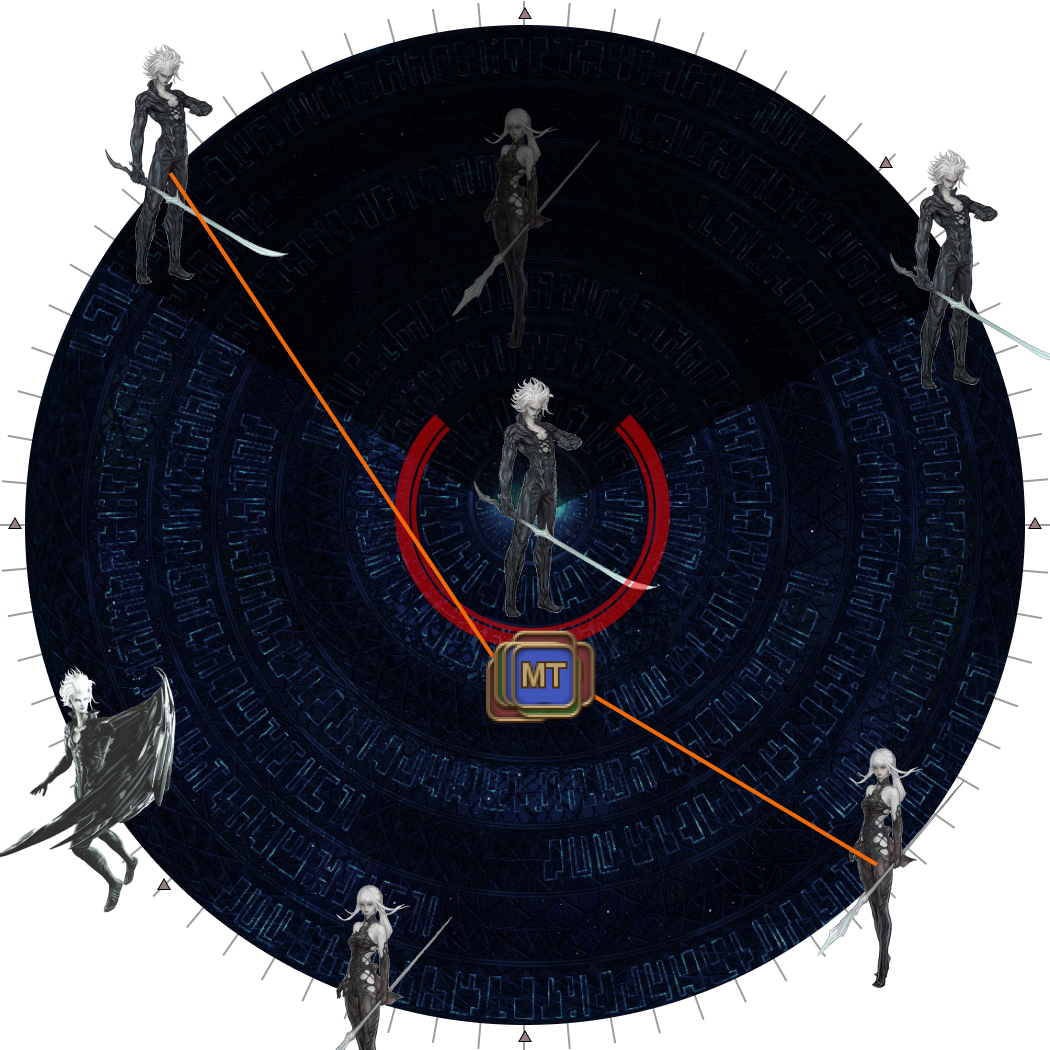
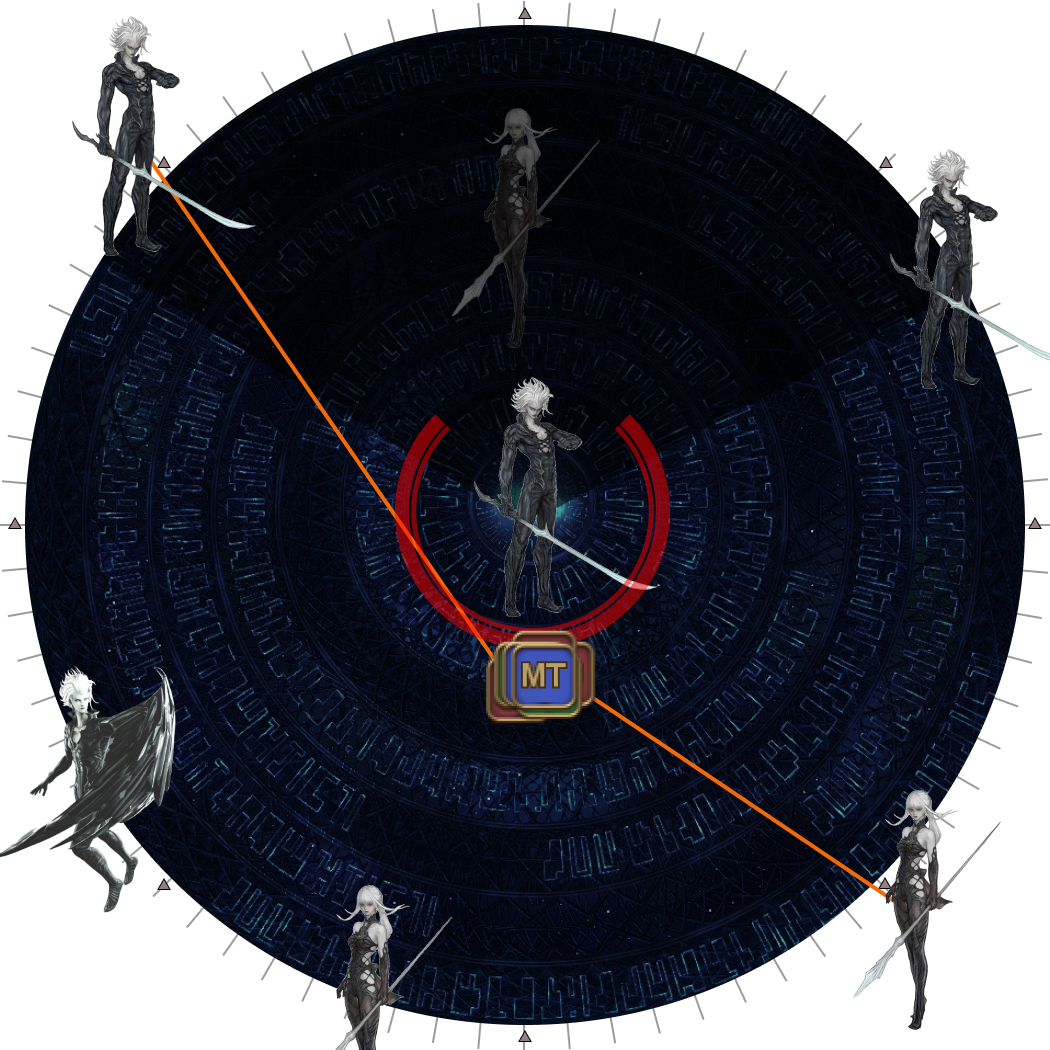
Add FAQ on optimal tether angle, correct tether positions in diagrams

diff --git a/ultimates/top/02_omega_mf.en.md b/ultimates/top/02_omega_mf.en.md
@@ -236,7 +236,7 @@ mechanics at the party to resolve.
 
 <table>
   <tr>
-    <td>
+    <td width="50%">
       <p><b>7.</b> All players stack together outside the target circle, at
       true south (indicated by the tip of Omega-M's targeting circle).</p>
       <p>Two clones at opposite intercardinal positions will each tether a
@@ -357,13 +357,49 @@ the hard enrage.
 </summary>
 <table>
   <tr>
-    <td>
+    <td width="50%">
       <p>It's rare (3/35 chance), but yes, it's possible.</p>
       <p>The rule still stays the same- the player further from the eye
       switches sides (two people on each side adjusts).</p>
       <p><em>(For completeness, the chance nobody swaps is 8/35, while the chance one person on each side swaps is 24/35.)</em></p>
     </td>
     <td><img src="{{site.baseurl}}/assets/images/ultimates/top/02/two_pairs.jpg"></td>
+  </tr>
+</table>
+</details>
+
+<details markdown=block>
+<summary>
+  <b>[Limitless Synergy]</b> As a tank, how far should I stretch the tethers to
+  maximise the width of the safe corridor?
+</summary>
+<table>
+  <tr>
+    <td width="50%">
+      <p>Short answer: the tanks should aim to stretch the tethers <b>five tick 
+      marks</b> from the clones.</p>
+      <p>Long answer: We want to point the conal cleaves as far outwards as we
+      can without going outside the arena. This means that we want the tether
+      to be tangent to the arena's circumference, which creates a right-angled
+      triangle with the center of the arena, and where the clones spawn.</p>
+      <p>Notably:</p>
+      <ul>
+        <li>The arena has a radius of 20 yalms.</li>
+        <li>The clones spawn 22 yalms away from the center (outside the arena).</li>
+      </ul>
+      <p>We can then use basic trigonometry to get cos(θ) = 20/22, so θ = 24.62 
+      degrees.</p>
+      <p>Each tick mark on the outside of the arena corresponds to 5 degrees,
+      so we want the tanks to pull the tethers <b>5 tick marks</b> to maximise 
+      the safe zone for the party to dodge to (particularly helpful for
+      "cursed" patterns).</p>
+      <p>Of course, the tanks cannot go <em>all</em> the way to the edge of the
+      arena. To that, since cos(θ) = 20/22 < π/2, so as the tanks get closer to 
+      the center, cos(θ) decreases and θ has to <em>increase</em> in order to
+      maintain a right-angled triangle (pull the tether roughly one extra tick 
+      mark clockwise for each yalm you are closer to the center).</p>
+    </td>
+    <td><img src="{{site.baseurl}}/assets/images/ultimates/top/02/limitless_synergy_faq.jpg"></td>
   </tr>
 </table>
 </details>
